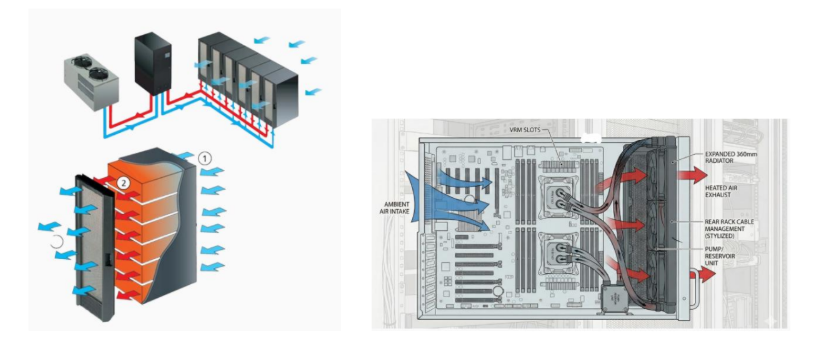
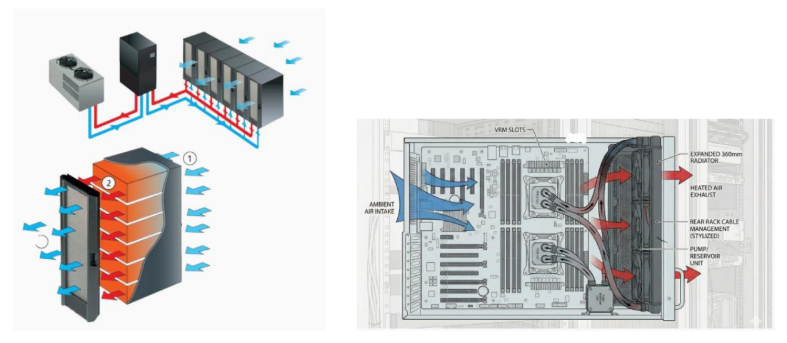
Add files via upload

diff --git a/index.html b/index.html
@@ -560,11 +560,13 @@
     <div style="display: grid; grid-template-columns: repeat(auto-fit, minmax(280px, 1fr)); gap: 1.5rem; align-items: start;">
 
       <div class="project-card" style="background: var(--card); border: 1px solid var(--border); padding: 1.5rem; border-radius: 1rem; display: flex; flex-direction: column;">
-        <h3 style="font-family: 'Playfair Display', serif; font-size: 1.2rem; margin-bottom: 1rem;">Design and Optimization of Spiral Jaw Clutch</h3>
-
-        <div style="margin: 0 -1.5rem 1rem; overflow: hidden; height: 280px;">
+        <div style="margin: -1.5rem -1.5rem 1rem; overflow: hidden; height: 280px; border-radius: 1rem 1rem 0 0;">
           <img src="spiral_jaw_clutch_cad.png" alt="Spiral Jaw Clutch CAD Model" style="width:100%; height:100%; object-fit: cover; display:block;">
         </div>
+
+        <h3 style="font-family: 'Playfair Display', serif; font-size: 1.2rem; margin-bottom: 1rem;">Design and Optimization of Spiral Jaw Clutch</h3>
+
+        <p style="color:var(--muted); font-size:0.9rem; margin-bottom: 1rem;">A SolidWorks-based mechanical design project focused on optimizing a spiral jaw clutch mechanism for improved torque transmission and engagement efficiency.</p>
 
         <div style="margin-top: auto;">
           <a href="https://drive.google.com/file/d/1gINuKnRBcTa1VoLBJLWyrkwcatcB3swL/view?usp=drive_link" target="_blank" rel="noopener noreferrer" class="project-pdf-link" 
@@ -576,11 +578,13 @@
       </div>
 
       <div class="project-card" style="background: var(--card); border: 1px solid var(--border); padding: 1.5rem; border-radius: 1rem; display: flex; flex-direction: column;">
-        <h3 style="font-family: 'Playfair Display', serif; font-size: 1.2rem; margin-bottom: 1rem;">Radiator-Type Rear door Heat Exchanger Equipment</h3>
-
-        <div style="margin: 0 -1.5rem 1rem; overflow: hidden; height: 280px;">
+        <div style="margin: -1.5rem -1.5rem 1rem; overflow: hidden; height: 280px; border-radius: 1rem 1rem 0 0;">
           <img src="radiator_cad_model.png" alt="Radiator CAD Model Validation Views" style="width:100%; height:100%; object-fit: cover; display:block;">
         </div>
+
+        <h3 style="font-family: 'Playfair Display', serif; font-size: 1.2rem; margin-bottom: 1rem;">Radiator-Type Rear door Heat Exchanger Equipment</h3>
+
+        <p style="color:var(--muted); font-size:0.9rem; margin-bottom: 1rem;">Design and experimental validation of a compact plate-fin-and-tube heat exchanger with Al₂O₃ nanofluid for data center cooling applications.</p>
 
         <div style="margin-top: auto;">
           <a href="https://drive.google.com/file/d/1Xqh4m2CPmdsplN-0eMz1Fm1DgrDAu_cS/view?usp=drive_link" target="_blank" rel="noopener noreferrer" class="project-pdf-link" 
